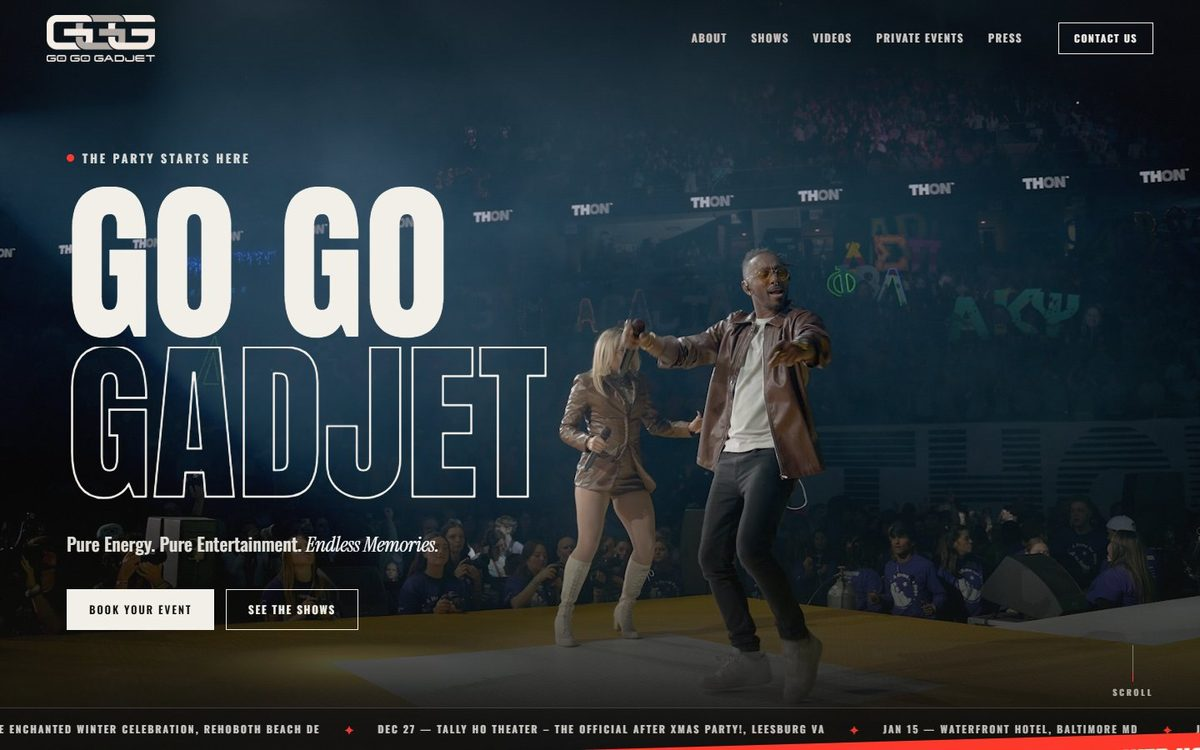
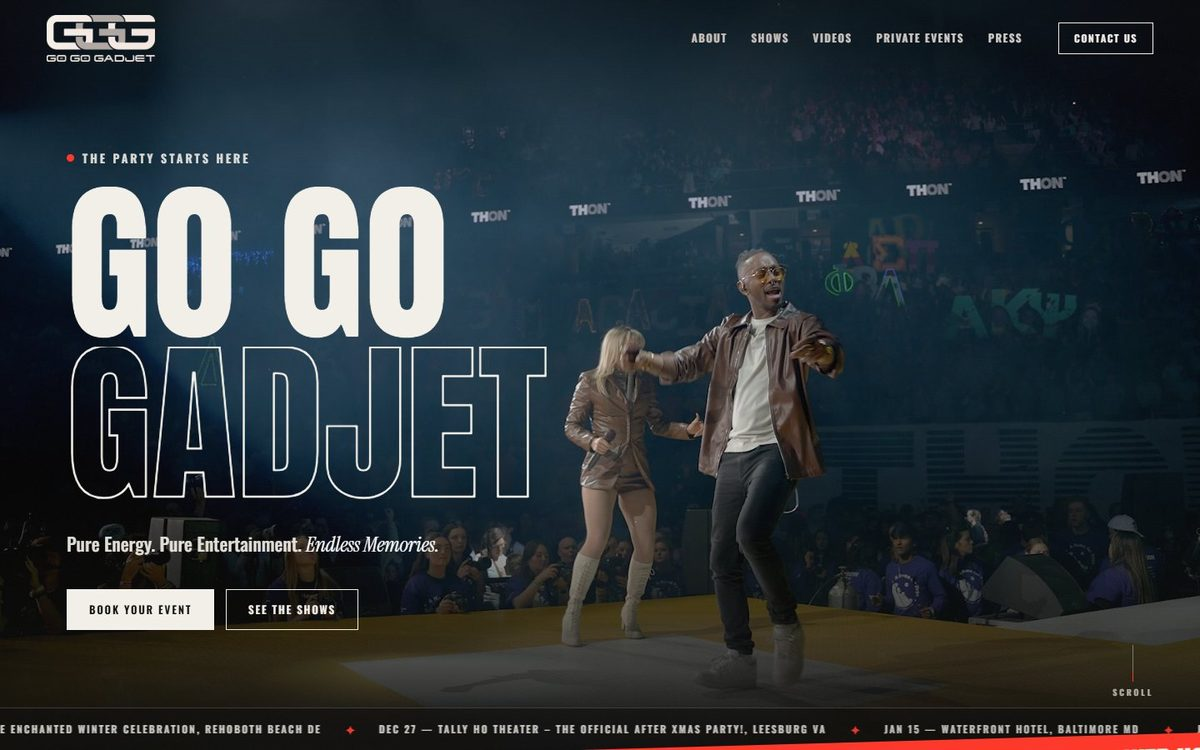
Staging v2: Three Hive Studios joins the sites built for clients

diff --git a/src/v2/site.css b/src/v2/site.css
@@ -111,7 +111,9 @@ h2 em, h1 em { font-style: normal; color: var(--sand); }
 .strip > * { scroll-snap-align: start; }
 
 /* sites built for clients */
-.work { display: grid; grid-template-columns: 1fr 1fr; gap: 1.2em; }
+.work { display: grid; grid-template-columns: repeat(6, 1fr); gap: 1.2em; }
+.job { grid-column: span 2; }
+.job:nth-child(-n + 2) { grid-column: span 3; }
 .job { display: block; border-radius: 1em; overflow: hidden; background: var(--panel); border: 1px solid var(--line); transition: transform var(--t2) var(--ease), border-color var(--t2) ease; }
 .job:hover { transform: translateY(-4px); border-color: #4a4d55; }
 .job .pic { aspect-ratio: 16 / 10; overflow: hidden; background: #0d0e10; }
@@ -121,6 +123,7 @@ h2 em, h1 em { font-style: normal; color: var(--sand); }
 .job h3 { margin: 0; font-size: 1.35em; font-weight: 600; letter-spacing: -.02em; }
 .job p { margin: .1em 0 0; color: var(--soft); }
 .job span { color: var(--sand); font-size: .9em; font-weight: 500; white-space: nowrap; }
+.job:nth-child(n + 3) .cap { flex-direction: column; align-items: flex-start; gap: .5em; }
 .job span b { font-weight: 400; }
 
 /* what is being made next */
@@ -289,7 +292,7 @@ body.lp { height: 100vh; height: 100dvh; display: flex; flex-direction: column; 
   .menu, .side a:not(.pill) { display: none; } .bar .row { justify-content: space-between; font-size: .9em; } .search b { display: none; }
   .hero { padding-top: 1.6em; } .track figure { width: 12.5em; } .track figure:nth-child(3n) { width: 9em; } .track figure:nth-child(4n + 1) { width: 15em; }
   .wall { min-height: 17em; } .lead { flex-direction: column; text-align: center; gap: 1.4em; padding-top: 2em; } .btns { justify-content: center; }
-  .sub { flex-direction: column; align-items: flex-start; } .work { grid-template-columns: 1fr; } .job .cap { flex-direction: column; align-items: flex-start; gap: .4em; } .why, .buy, .soonlist { grid-template-columns: 1fr; gap: 1.6em; } .soonlist { gap: .8em; } .buy { gap: 1em; }
+  .sub { flex-direction: column; align-items: flex-start; } .work { grid-template-columns: 1fr; } .job, .job:nth-child(-n + 2) { grid-column: auto; } .job .cap { flex-direction: column; align-items: flex-start; gap: .4em; } .why, .buy, .soonlist { grid-template-columns: 1fr; gap: 1.6em; } .soonlist { gap: .8em; } .buy { gap: 1em; }
   .card { padding: .8em; } .card.made p { font-size: 1.2em; } .open { flex-direction: column; align-items: flex-start; padding: 1.6em; }
   .strip { grid-auto-columns: 72%; } .rule { margin: 4em 3vw; } .last { padding: 4.5em 0; }
   .shelfgrid { grid-template-columns: repeat(2, 1fr); gap: .7em; } .item { padding: .5em .5em .7em; }

diff --git a/staging-v2/index.html b/staging-v2/index.html
@@ -74,12 +74,13 @@
 
   <section class="wrap" id="work">
     <h2>Built for clients</h2>
-    <div class="sub"><span>Sites we designed and built to order. All four are live right now.</span><a class="more" href="#order">Start a project</a></div>
+    <div class="sub"><span>Sites we designed and built to order. All five are live right now.</span><a class="more" href="#order">Start a project</a></div>
     <div class="work">
       <a class="job" href="https://blueravenartists.com/" target="_blank" rel="noopener"><div class="pic"><img src="/v2/work/blueraven.jpg" alt="The Blue Raven Entertainment home page: a crowd, stage lights and the agency's headline" loading="lazy" width="1200" height="750"></div><div class="cap"><div><h3>Blue Raven Entertainment</h3><p>Booking agency</p></div><span>blueravenartists.com <b aria-hidden="true">&#8599;</b></span></div></a>
       <a class="job" href="https://magicalmysterydoors.com/" target="_blank" rel="noopener"><div class="pic"><img src="/v2/work/mmd.jpg" alt="The Magical Mystery Doors home page: three glowing doors in gold, purple and green" loading="lazy" width="1200" height="750"></div><div class="cap"><div><h3>Magical Mystery Doors</h3><p>Touring show</p></div><span>magicalmysterydoors.com <b aria-hidden="true">&#8599;</b></span></div></a>
       <a class="job" href="https://gogogadjet.com/" target="_blank" rel="noopener"><div class="pic"><img src="/v2/work/gogogadjet.jpg" alt="The Go Go Gadjet home page: the band on stage with its name in tall letters" loading="lazy" width="1200" height="750"></div><div class="cap"><div><h3>Go Go Gadjet</h3><p>Event band</p></div><span>gogogadjet.com <b aria-hidden="true">&#8599;</b></span></div></a>
       <a class="job" href="https://blurryfacelivetribute.com/" target="_blank" rel="noopener"><div class="pic"><img src="/v2/work/blurryface.jpg" alt="The Blurryface home page: a band in red stage light" loading="lazy" width="1200" height="750"></div><div class="cap"><div><h3>Blurryface</h3><p>Tribute band</p></div><span>blurryfacelivetribute.com <b aria-hidden="true">&#8599;</b></span></div></a>
+      <a class="job" href="https://threehive.com/" target="_blank" rel="noopener"><div class="pic"><img src="/v2/work/threehive.jpg" alt="The Three Hive Studios home page" loading="lazy" width="1200" height="750"></div><div class="cap"><div><h3>Three Hive Studios</h3><p>Podcast and rehearsal studios</p></div><span>threehive.com <b aria-hidden="true">&#8599;</b></span></div></a>
     </div>
   </section>
 
